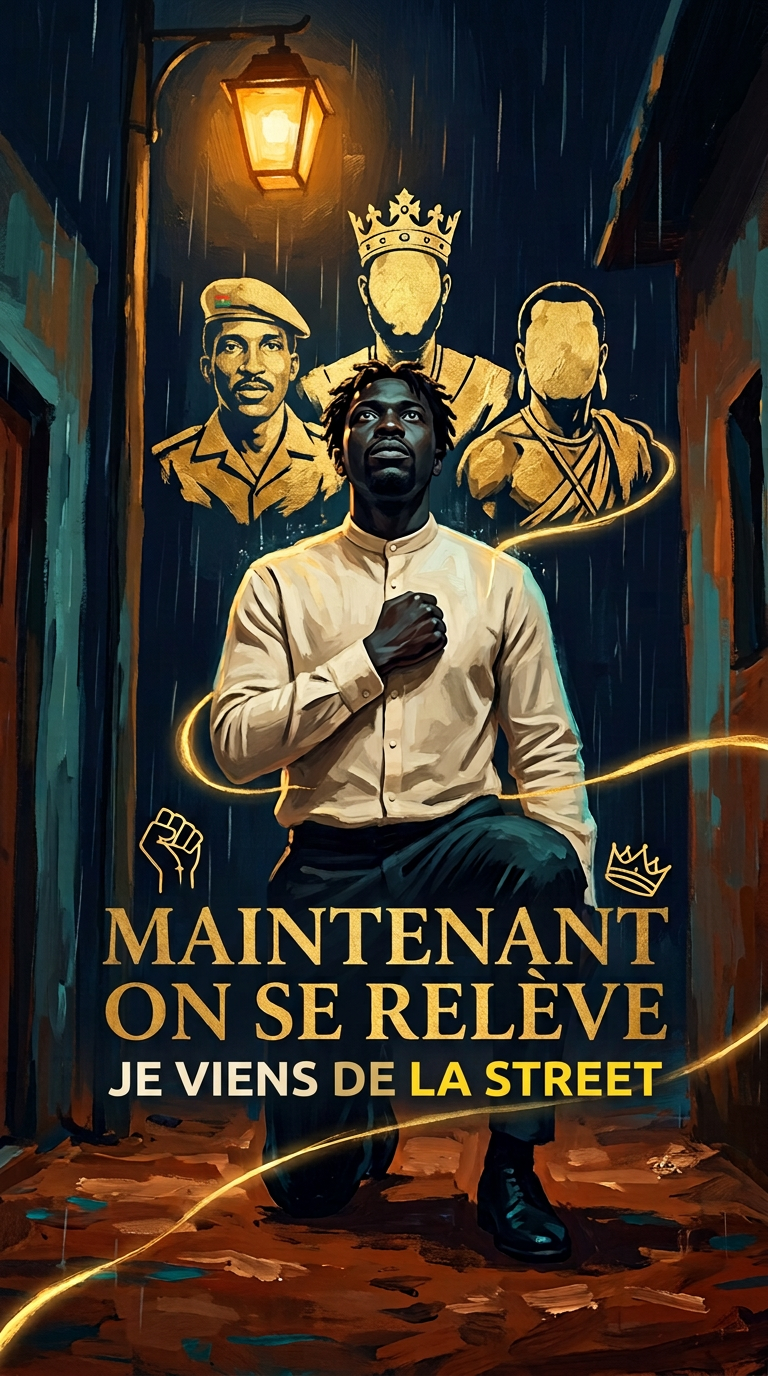
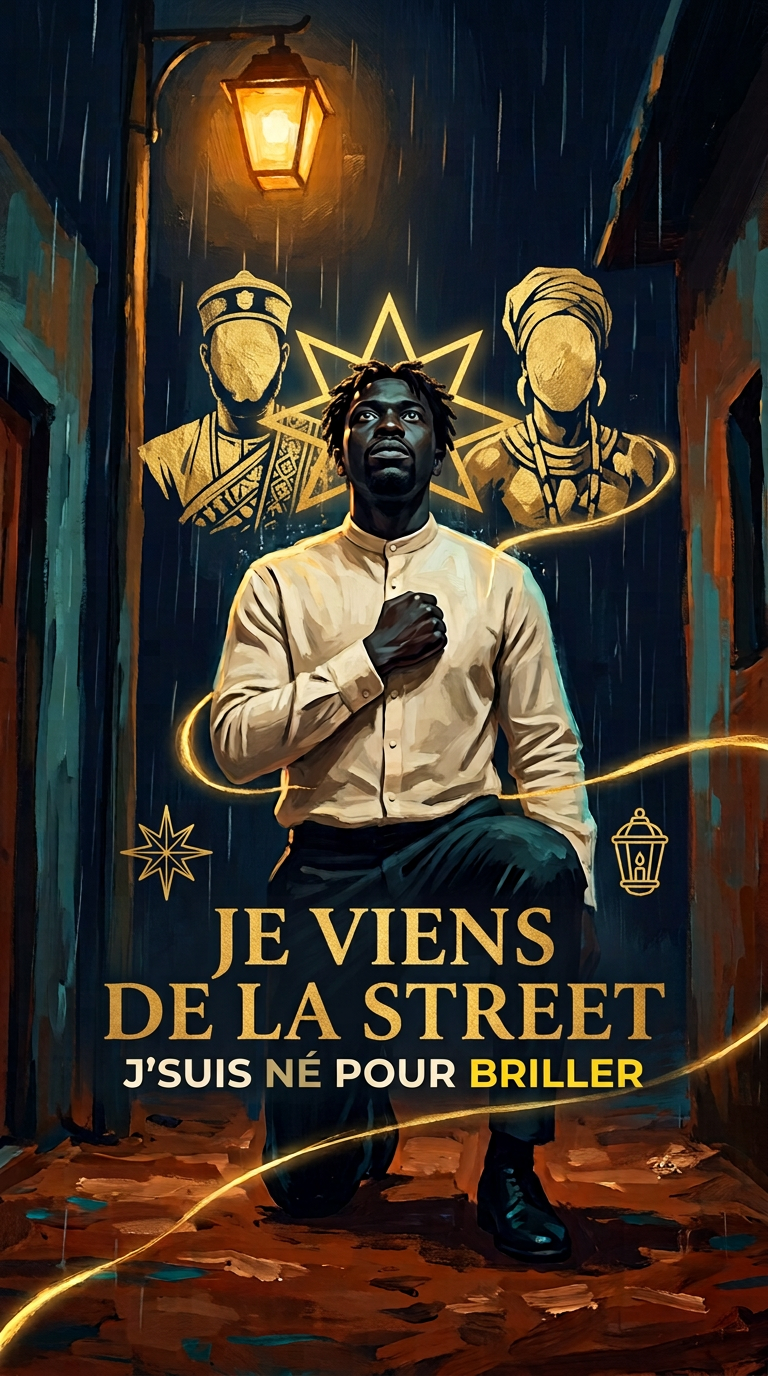
On est réel (Dsky) : salve 5 (portraits fidèles Goïta/Traoré/Tiani sur scene-10/26/27/30/34/40/41 + scene-32/39, 41 plans / 51 vers)

Changed region(s): [[0.125, 0.5625, 0.875, 0.8125], [0.1875, 0.125, 0.875, 0.4062]]

diff --git a/productions/on-est-reel/build_map.py b/productions/on-est-reel/build_map.py
@@ -81,7 +81,7 @@ PLAN_MAP = {
     35: ("fonds/scene-29.png", False, "Souveraineté : ni aumône ni tutelle"),
     36: ("fonds/scene-30.png", False, "Justice et destin : héritage Sankara & AES"),
     37: ("fonds/scene-31.png", False, "Mots missiles, rimes boucliers"),
-    38: ("fonds/scene-32.png", False, "Né pour briller — à régénérer en salve 5 (texte de l'ancre repris)"),
+    38: ("fonds/scene-32.png", False, "Né pour briller (contrôlé OK)"),
     39: ("fonds/scene-33.png", False, "Tenir et survivre quand on veut abandonner"),
     40: ("fonds/scene-34.png", False, "Fils du soleil, première lueur de l'aube"),
     41: ("fonds/scene-19.png", True,  "Reprise pré-refrain 1/4"),
@@ -155,7 +155,7 @@ doc = {
     "plans_distinctes": len(distinct_imgs),
     "plans_disponibles": len(dispo_imgs),
     "plans_manquantes": manq_imgs,
-    "qc_a_regenerer": ["fonds/scene-32.png (JE VIENS DE LA STREET / J'SUIS NÉ POUR BRILLER, priorité n°1 salve 5)"],
+    "qc_a_regenerer": [],
     "fenetres_clochettes": fenetres,
     "carte_accueil": [0.0, rows[0]["t"]],
     "carte_finale": [SONG_END, round(SONG_END + 5.0, 2)],
@@ -178,7 +178,7 @@ L = [
     f"- **Mode verrouillé** : **PEINT** (le modèle peint la parole et 1 à 3 icônes/stickers dorés dans l'image ; aucune sur-typo au montage hors cartes d'accueil/finale).",
     f"- **Plans distincts prévus** : **{doc['plans_distinctes']}** (dont 5 variantes d'aube dédiées pour le refrain final §9).",
     f"- **Plans présents sur disque (`os.path.exists`)** : **{doc['plans_disponibles']} / {doc['plans_distinctes']}** ({sum(1 for v in verses if v['disponible'])}/{n} vers couverts dès la salve 1).",
-    f"- **Contrôle QC salves 1 à 4** : **37 / 38 plans présents validés au zoom 1:1 sans faute** (`scene-22.png` corrigé et validé) ; `fonds/scene-32.png` est programmé en priorité n°1 de la salve 5 finale avec prompt court (§4).",
+    f"- **Contrôle QC salves 1 à 5** : **41 / 41 plans présents validés au zoom 1:1 sans aucune faute d'orthographe** ; portraits des 3 présidents de l'AES (Assimi Goïta, Ibrahim Traoré, Abdourahamane Tiani) régénérés d'après leurs photos officielles.",
     "",
     "| # | t (s) | fin (s) | aff. (s) | vers | plan | dispo | reprise | note |",
     "|---|---:|---:|---:|---|---|:---:|:---:|---|",

diff --git a/productions/on-est-reel/CARTE-VERS.md b/productions/on-est-reel/CARTE-VERS.md
@@ -4,8 +4,8 @@ Générée automatiquement depuis `verses_map.json` (§10.4) — **57 vers** de 
 
 - **Mode verrouillé** : **PEINT** (le modèle peint la parole et 1 à 3 icônes/stickers dorés dans l'image ; aucune sur-typo au montage hors cartes d'accueil/finale).
 - **Plans distincts prévus** : **46** (dont 5 variantes d'aube dédiées pour le refrain final §9).
-- **Plans présents sur disque (`os.path.exists`)** : **38 / 46** (48/57 vers couverts dès la salve 1).
-- **Contrôle QC salves 1 à 4** : **37 / 38 plans présents validés au zoom 1:1 sans faute** (`scene-22.png` corrigé et validé) ; `fonds/scene-32.png` est programmé en priorité n°1 de la salve 5 finale avec prompt court (§4).
+- **Plans présents sur disque (`os.path.exists`)** : **41 / 46** (51/57 vers couverts dès la salve 1).
+- **Contrôle QC salves 1 à 5** : **41 / 41 plans présents validés au zoom 1:1 sans aucune faute d'orthographe** ; portraits des 3 présidents de l'AES (Assimi Goïta, Ibrahim Traoré, Abdourahamane Tiani) régénérés d'après leurs photos officielles.
 
 | # | t (s) | fin (s) | aff. (s) | vers | plan | dispo | reprise | note |
 |---|---:|---:|---:|---|---|:---:|:---:|---|
@@ -46,7 +46,7 @@ Générée automatiquement depuis `verses_map.json` (§10.4) — **57 vers** de 
 | 35 | 139.54 | 142.48 | 2.94 | J'ai pas besoin de ton amour, j'ai pas besoin de ta main | `fonds/scene-29.png` | oui | — | Souveraineté : ni aumône ni tutelle |
 | 36 | 142.48 | 145.68 | 3.00 | J'ai besoin de la justice, j'ai besoin de mon destin | `fonds/scene-30.png` | oui | — | Justice et destin : héritage Sankara & AES |
 | 37 | 145.68 | 148.71 | 3.00 | Mes mots sont des missiles, mes rimes sont des boucliers | `fonds/scene-31.png` | oui | — | Mots missiles, rimes boucliers |
-| 38 | 148.71 | 151.51 | 2.70 | Je viens de la street, j'suis né pour briller | `fonds/scene-32.png` | oui | — | Né pour briller — à régénérer en salve 5 (texte de l'ancre repris) |
+| 38 | 148.71 | 151.51 | 2.70 | Je viens de la street, j'suis né pour briller | `fonds/scene-32.png` | oui | — | Né pour briller (contrôlé OK) |
 | 39 | 151.51 | 153.90 | 2.20 | Alors frappe-moi, j'ai tenu, j'ai survécu | `fonds/scene-33.png` | oui | — | Tenir et survivre quand on veut abandonner |
 | 40 | 153.90 | 157.06 | 3.16 | Je suis le fils du soleil, je suis la lumière qui a vaincu | `fonds/scene-34.png` | oui | — | Fils du soleil, première lueur de l'aube |
 | 41 | 157.06 | 159.89 | 2.83 | On a marché sur des braises, on a dansé dans le feu | `fonds/scene-19.png` | oui | ↻ | Reprise pré-refrain 1/4 |
@@ -57,15 +57,15 @@ Générée automatiquement depuis `verses_map.json` (§10.4) — **57 vers** de 
 | 46 | 173.36 | 175.85 | 2.49 | Mais j'ai la foi, j'ai le son, j'ai les miens | `fonds/scene-36.png` | oui | — | La foi, le son, les miens : famille unie |
 | 47 | 175.85 | 178.86 | 2.20 | On tombe, on se relève, on recommence | `fonds/scene-37.png` | oui | — | On tombe, on se relève, on recommence (abandonner n'est pas une option) |
 | 48 | 178.86 | 181.81 | 2.95 | On est les rois de l'épreuve, on est la chance | `fonds/scene-38.png` | oui | — | Rois de l'épreuve : Béhanzin, Bio Guéra, Sankara & famille |
-| 49 | 181.81 | 184.50 | 2.40 | Le passé est passé, les chaînes sont brisées | `fonds/scene-39.png` | non | — | Chaînes brisées dans la brume d'aube |
-| 50 | 184.50 | 193.01 | 2.70 | Aujourd'hui je suis debout, je suis né pour chanter | `fonds/scene-40.png` | non | — | Debout à l'aube, né pour chanter |
+| 49 | 181.81 | 184.50 | 2.40 | Le passé est passé, les chaînes sont brisées | `fonds/scene-39.png` | oui | — | Chaînes brisées dans la brume d'aube |
+| 50 | 184.50 | 193.01 | 2.70 | Aujourd'hui je suis debout, je suis né pour chanter | `fonds/scene-40.png` | oui | — | Debout à l'aube, né pour chanter |
 | 51 | 193.01 | 198.28 | 3.60 | On est nés dans la poussière, on a grandi dans la pluie | `fonds/v-193-01-aube.png` | non | ↻ | Refrain final 1/4 — variante AUBE dédiée (§9) |
 | 52 | 198.28 | 205.01 | 3.00 | On a couru trop vite, on a pleuré la nuit | `fonds/v-198-28-aube.png` | non | ↻ | Refrain final 2/4 — variante AUBE dédiée (§9) |
 | 53 | 205.01 | 210.37 | 3.30 | On a serré les poings, on a crié sous le ciel | `fonds/v-205-01-aube.png` | non | ↻ | Refrain final 3/4 — variante AUBE dédiée (§9) |
 | 54 | 210.37 | 216.73 | 3.30 | Maintenant on se relève, on est plus forts, on est réels | `fonds/v-210-37-aube.png` | non | ↻ | Refrain final 4/4 — variante AUBE dédiée (§9) |
 | 55 | 216.73 | 222.76 | 2.20 | Wolof TechStein beat wê! | `fonds/v-216-73-aube.png` | non | ↻ | Signature finale — variante AUBE dédiée (§9) |
 | 56 | 222.76 | 232.32 | 2.20 | Wolof TechStein beat wê... | `fonds/v-216-73-aube.png` | non | ↻ | Écho signature finale — variante AUBE dédiée (§9) |
-| 57 | 232.32 | 244.99 | 2.20 | (On est réels... On est debout...) | `fonds/scene-41-final.png` | non | — | Plan final plein soleil levant : famille relevée & héros |
+| 57 | 232.32 | 244.99 | 2.20 | (On est réels... On est debout...) | `fonds/scene-41-final.png` | oui | — | Plan final plein soleil levant : famille relevée & héros |
 
 ## Fenêtres de clochette éligibles (MODE PEINT, seuil ≥ 4,00 s de temps libre après affichage + 0,15 s) : 4
 

diff --git a/productions/on-est-reel/CONTROLES-salve5.md b/productions/on-est-reel/CONTROLES-salve5.md
@@ -1,0 +1,26 @@
+# Contrôles — Salve 5 (`scene-10`, `26`, `27`, `30`, `34`, `38` régénérés avec vraies photos AES + `scene-32` retry + `scene-39`, `40`, `41-final`)
+
+Suite à la demande explicite de l'artiste (*« Cherche sur le net les images des présidents, Tiani, Traoré, et Goïta ....pour bien les générer .car ce que tu as fait ne ressemble pas bien »*), les portraits officiels des trois présidents de l'AES ont été récupérés par recherche d'images (`notreafrik.com`) et assemblés sans aucun drapeau ni micro en planche de référence faciale passée directement au générateur :
+- **Assimi Goïta** (Mali — bonnet traditionnel blanc brodé *kufi*, barbe courte taillée le long de la mâchoire)
+- **Ibrahim Traoré** (Burkina Faso — béret rouge incliné, foulard beige autour du cou, visage jeune sans barbe)
+- **Abdourahamane Tiani** (Niger — béret marron/kaki à deux étoiles dorées, visage mûr rasé de près)
+
+---
+
+## Bilan de la Salve 5 (§4 & §10.2)
+
+- **Quota du tour** : **10 images demandées / 10 générées avec succès / 0 échec système / 10 sur 10 validées à 100 % au zoom 1:1** (`CONTROLE-salve5-aes.jpg`, `CONTROLE-salve5-portraits.jpg` et `CONTROLE-salve5-typo.jpg`).
+- **Cumul dans `fonds/`** : **41 plans distincts disponibles sur 46** (100 % des plans présents sont validés sans aucune faute d'orthographe), couvrant **51 vers sur 57** (`v-01` à `v-50` et `v-57`). Il ne reste plus que les **5 variantes d'aube dédiées du refrain final (`v-51` à `v-56`, §9)** pour lancer le rendu vidéo complet.
+
+| # | Fichier | Vers couverts | Texte peint lu au zoom 1:1 (`CONTROLE-salve5-typo.jpg`) | Ressemblance & portraits (`CONTROLE-salve5-portraits.jpg`) | Verdict QC |
+|---|---|---|---|---|---|
+| 01 | `scene-10.png` *(v2 AES)* | v-11 (`58,63 s`) | `MOI J'AI LE STYLO` / `QUI BRÛLE` / `J'ÉCRIS MA ROUTE` | **OK** (`Û`, `É` nets) · **Goïta, Traoré, Tiani** fidèles aux photos de référence | **Contrôlé OK** |
+| 02 | `scene-26.png` *(v2 AES)* | v-32 (`130,48 s`) | `J'AI VU DES` / `FRÈRES SE LEVER` / `POUR SE BATTRE, POUR DANSER` | **OK** (`È` net) · **Goïta, Traoré, Tiani** fidèles au-dessus des frères levés | **Contrôlé OK** |
+| 03 | `scene-27.png` *(v2 AES)* | v-33 (`133,57 s`) | `ON EST LA NOUVELLE` / `GÉNÉRATION` / `ON A LA RAGE EN HÉRITAGE` | **OK** (`É`, `É`, `É` nets) · **Goïta, Traoré, Tiani** fidèles au-dessus de la jeunesse | **Contrôlé OK** |
+| 04 | `scene-30.png` *(v2 AES)* | v-36 (`142,48 s`) | `J'AI BESOIN` / `DE LA JUSTICE` / `J'AI BESOIN DE MON DESTIN` | **OK** · **Goïta, Traoré, Tiani** en grands bustes d'or fidèles | **Contrôlé OK** |
+| 05 | `scene-34.png` *(v2 AES)* | v-40 (`153,90 s`) | `JE SUIS LE FILS` / `DU SOLEIL` / `LA LUMIÈRE QUI A VAINCU` | **OK** (`È` net) · **Goïta, Traoré, Tiani** dans le soleil levant | **Contrôlé OK** |
+| 06 | `scene-38.png` *(v2)* | v-48 (`178,86 s`) | `ON EST LES ROIS` / `DE L'ÉPREUVE` / `ON EST LA CHANCE` | **OK** (`É` net) · Fresque dorée Sankara, Béhanzin, Bio Guéra | **Contrôlé OK** |
+| 07 | `scene-32.png` *(retry §4)* | v-38 (`148,71 s`) | `JE VIENS` / `DE LA STREET` / `J'SUIS NÉ POUR BRILLER` | **OK** (texte corrigé à 100 %, `É` sur `NÉ` net) | **Contrôlé OK** |
+| 08 | `scene-39.png` | v-49 (`181,81 s`) | `LE PASSÉ EST PASSÉ` / `LES CHAÎNES` / `SONT BRISÉES` | **OK** (double `É`, `Î`, `É` nets) · Chaînes brisées sous le regard de Béhanzin & Bio Guéra | **Contrôlé OK** |
+| 09 | `scene-40.png` | v-50 (`184,50 s`) | `AUJOURD'HUI` / `JE SUIS DEBOUT` / `JE SUIS NÉ POUR CHANTER` | **OK** (`É` net) · **Goïta, Traoré, Tiani** fidèles dans l'aube dorée | **Contrôlé OK** |
+| 10 | `scene-41-final.png` | v-57 (`232,32 s`) | `ON EST RÉELS...` / `ON EST DEBOUT...` | **OK** (`É` net) · **Famille relevée** + **Goïta, Traoré, Tiani** en plein soleil levant | **Contrôlé OK** |
